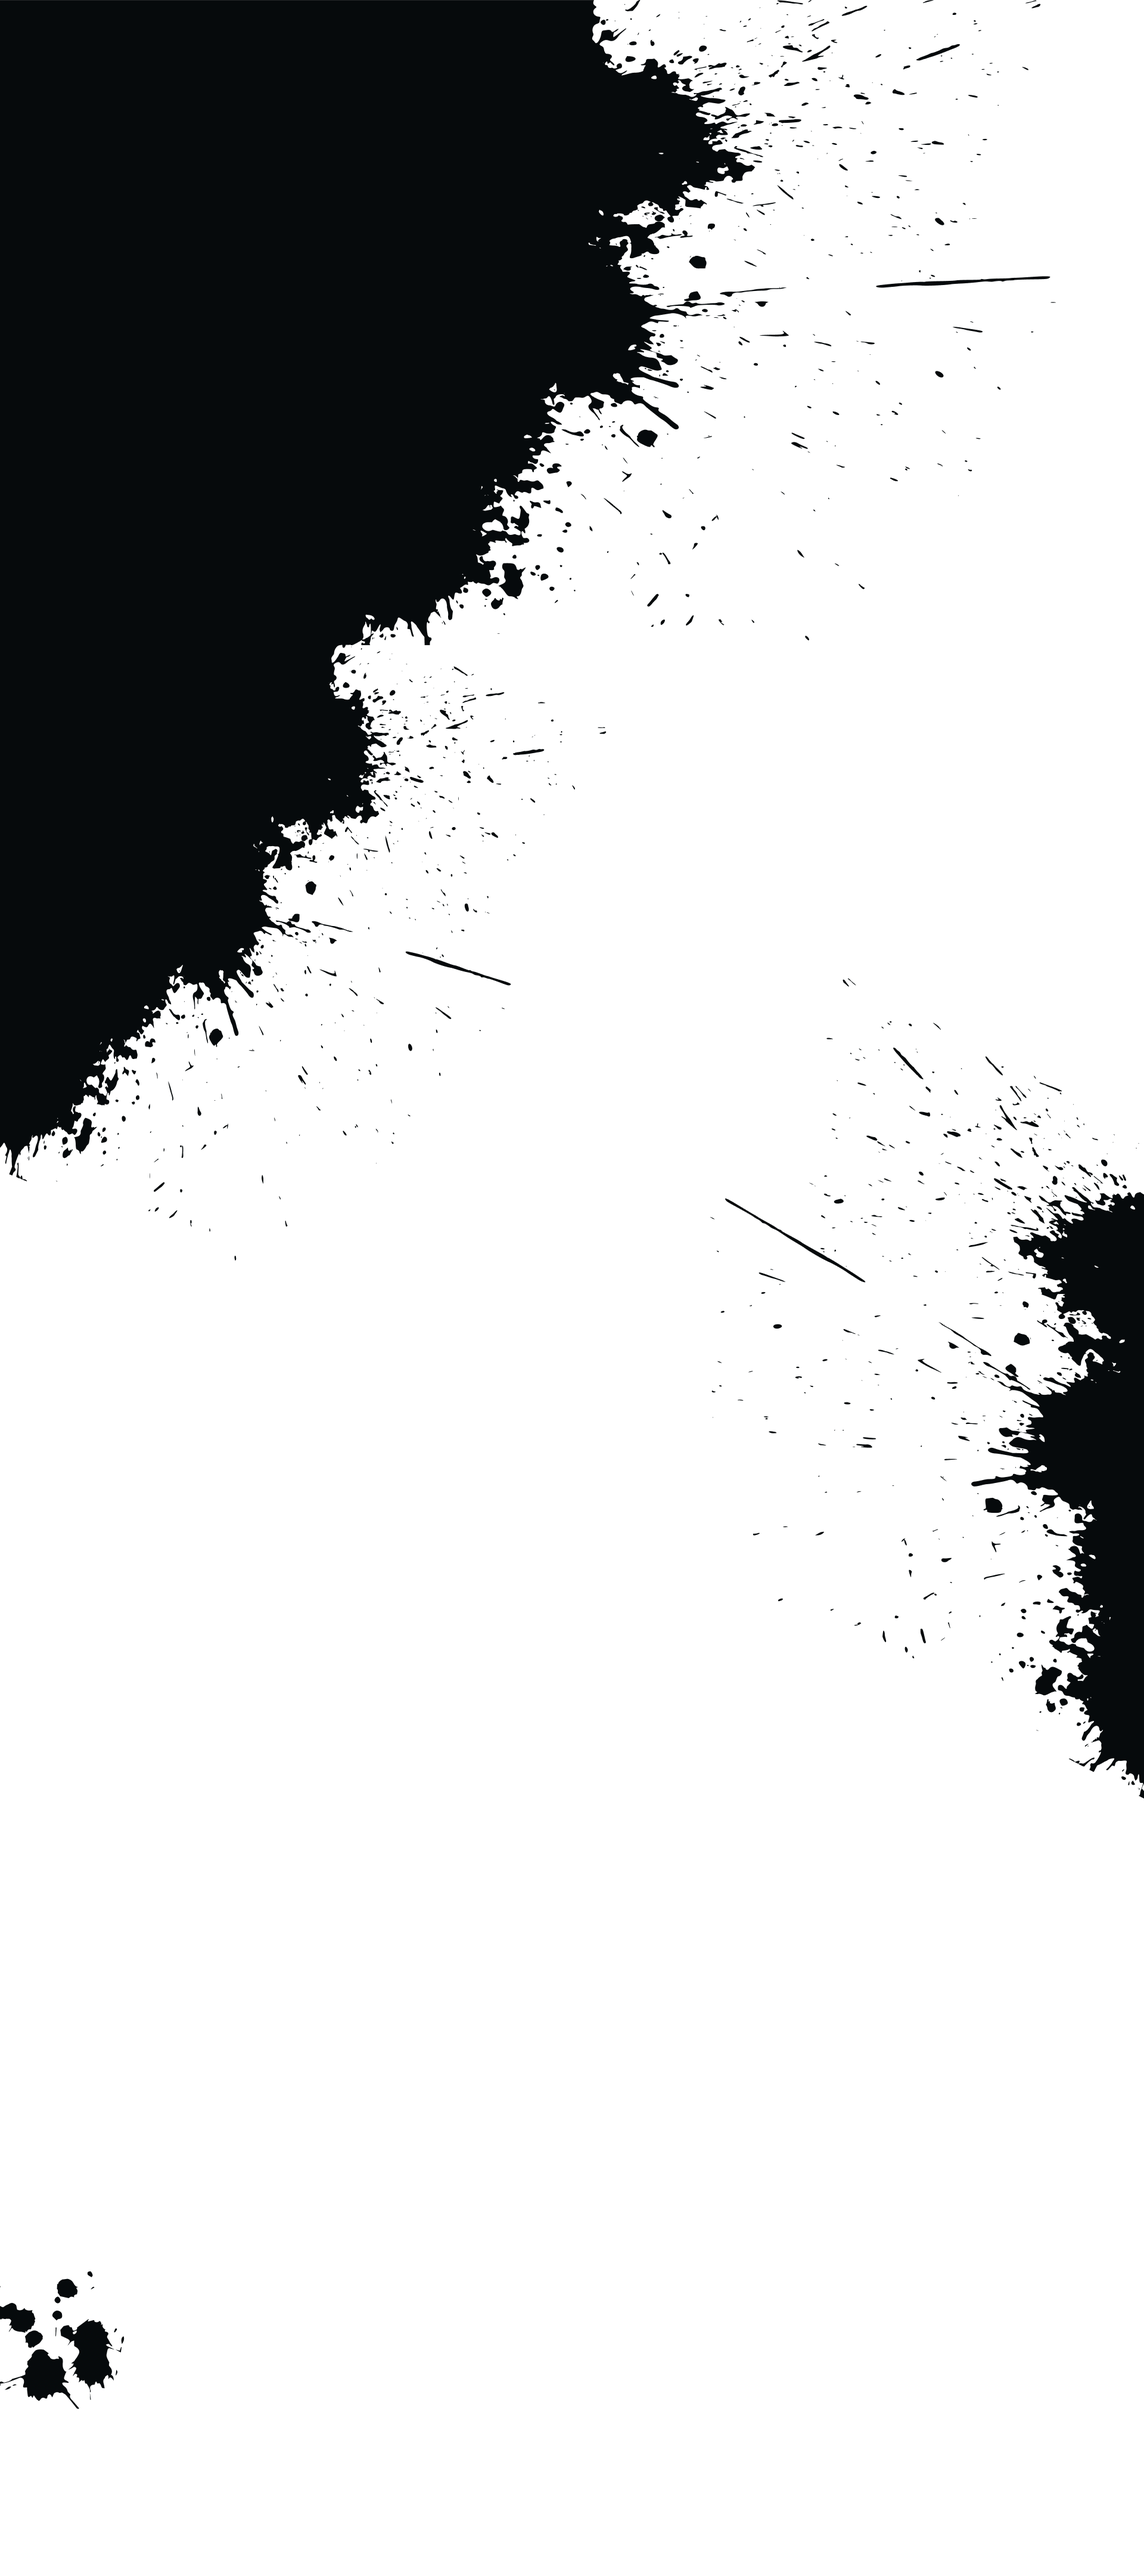
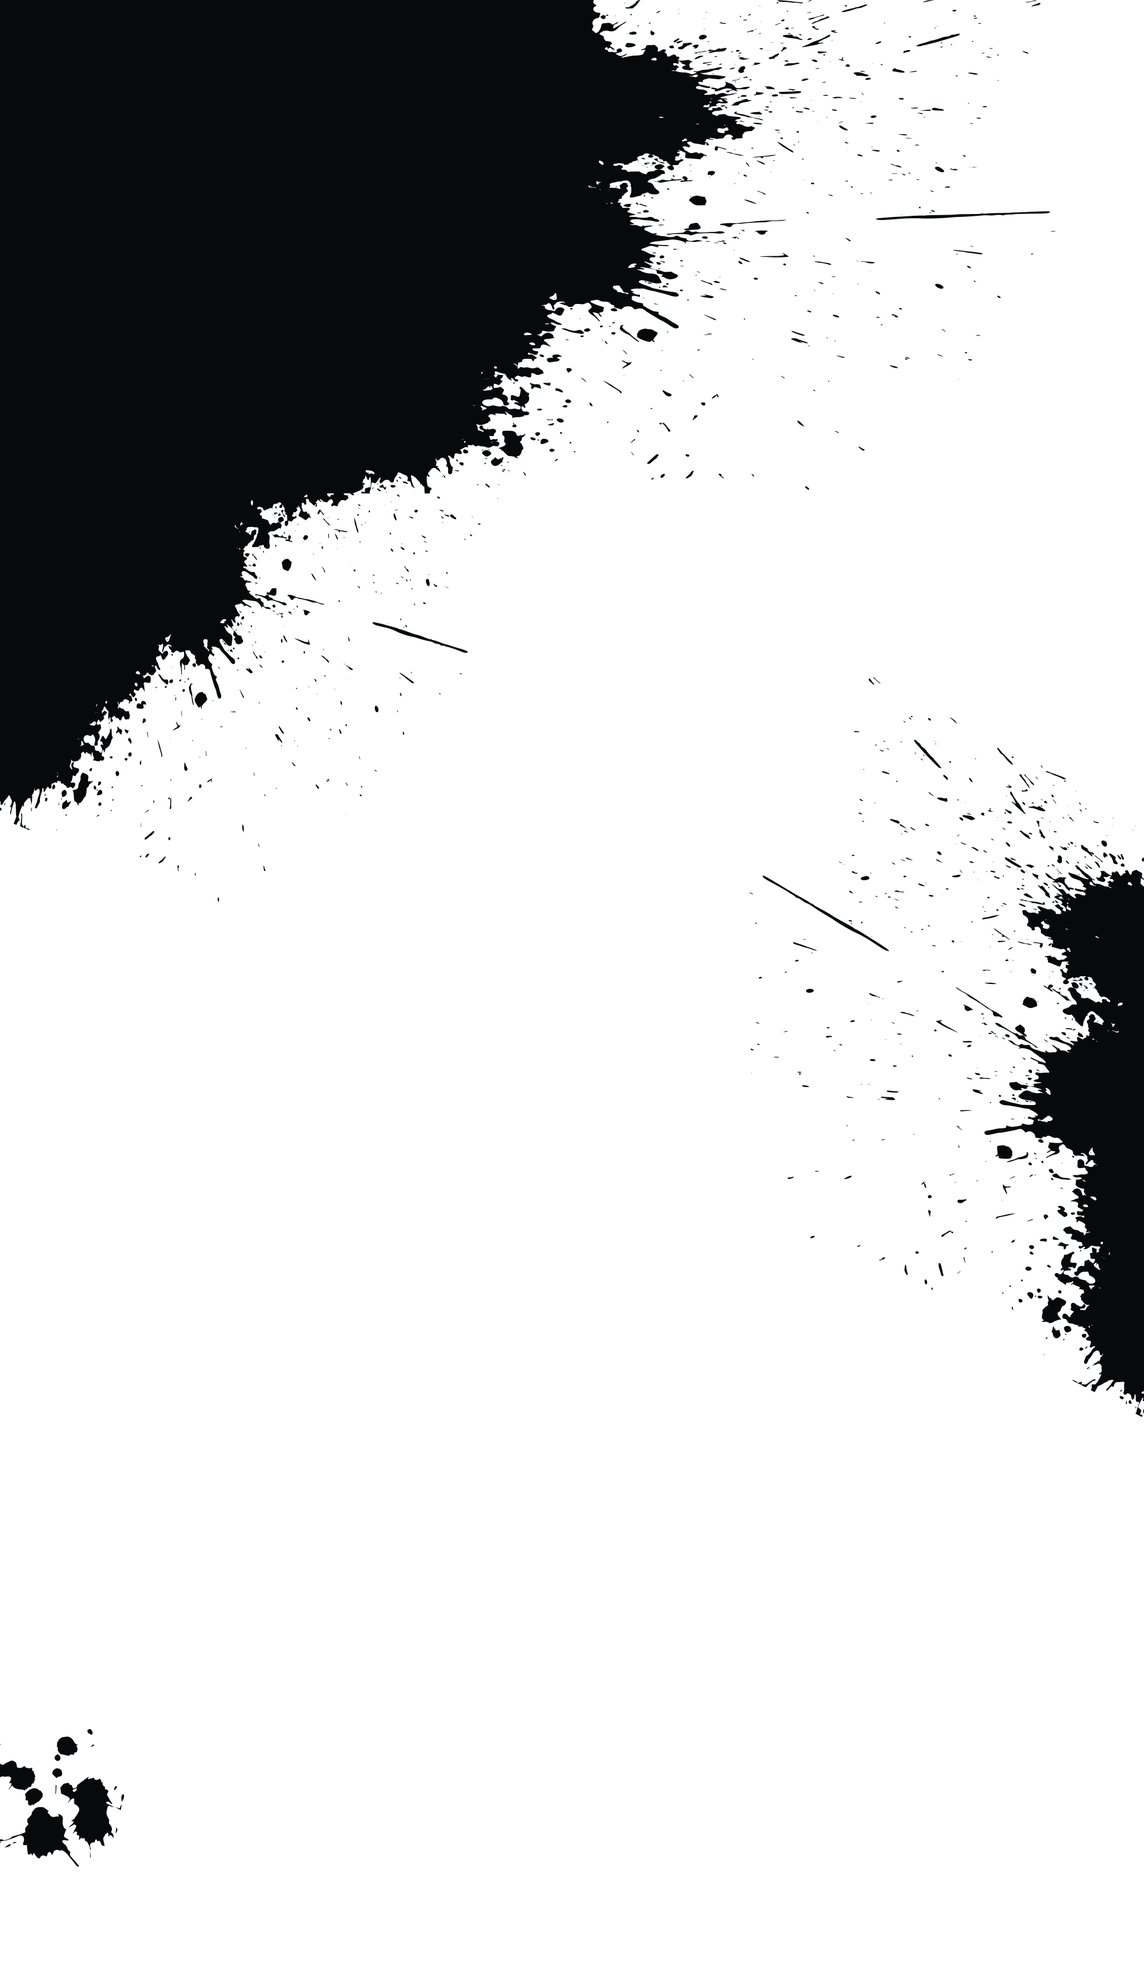
navbar page scroll interactions complete minor improvements from lighthouse audit

diff --git a/app/page.tsx b/app/page.tsx
@@ -1,14 +1,22 @@
+"use client";
+
+import { ArrowDownCircleIcon } from "@heroicons/react/24/outline";
+import Link from "next/link";
+
 import Navbar from "@/components/navbar";
-import Image from "next/image";
+import { links, socials } from "@/configs/details";
+import { scrollToDiv } from "@/libs";
+import { useRouter } from "next/navigation";
 
 export default function Home() {
   return (
     <main className="flex flex-col min-h-screen justify-center">
       <Navbar />
+
       {/* hero section */}
       <div
         id="home"
-        className="flex flex-col h-screen items-start justify-center md:px-24 -mt-[7.5rem] gap-10"
+        className="flex flex-col h-screen items-start justify-center px-12 md:px-24 -mt-[7.5rem] gap-10"
       >
         <div className="flex flex-col gap-4">
           <h1 className="uppercase text-black font-extrabold tracking-[0.19rem] text-outline-white text-6xl lg:text-5xl">
@@ -18,10 +26,27 @@ export default function Home() {
             Engineer + Full Stack Developer
           </p>
         </div>
+
+        <div className="flex gap-4">
+          {socials.map(({ link, icon }, i) => (
+            <Link key={i} href={link} className="w-8 rounded-full bg-gray">
+              <div className="p-1.5 text-black">{icon}</div>
+            </Link>
+          ))}
+        </div>
       </div>
 
       {/* about section */}
       <div className="h-screen" id="about"></div>
+
+      {/* skills section */}
+      <div className="h-screen" id="skills"></div>
+
+      {/* works section */}
+      <div className="h-screen" id="works"></div>
+
+      {/* contact section */}
+      <div className="h-screen" id="contact"></div>
     </main>
   );
 }

diff --git a/components/navbar.tsx b/components/navbar.tsx
@@ -1,13 +1,24 @@
 "use client";
 
 import Link from "next/link";
-import React, { useState } from "react";
+import React, { useEffect, useState } from "react";
 
 import { links } from "@/configs/details";
 import { classNames, scrollToDiv } from "@/libs";
+import { useParams } from "next/navigation";
 
 const Navbar = () => {
+  const params = useParams();
+
   const [activeLink, setActiveLink] = useState<string>("home");
+
+  useEffect(() => {
+    const section = window.location.hash;
+    setActiveLink(
+      section.split("#")[1]?.length ? section.split("#")[1] : "home"
+    );
+    scrollToDiv(section.split("#")[1]?.length ? section.split("#")[1] : "home");
+  }, [params]);
 
   return (
     <header className="sticky top-0 md:px-24 pt-2 glass mix-blend-difference">
@@ -58,7 +69,10 @@ const NavItem = ({
     >
       <Link
         href={url}
-        className={classNames(active ? "text-accent" : "text-white")}
+        className={classNames(
+          active ? "text-accent" : "text-white",
+          "scroll-smooth"
+        )}
       >
         {text}
       </Link>

diff --git a/configs/details.tsx b/configs/details.tsx
@@ -15,7 +15,7 @@ export const country = "Ghana";
 export const links = [
   {
     text: "home",
-    url: "#",
+    url: "#home",
   },
   {
     text: "about",
@@ -39,12 +39,8 @@ export const logo = null;
 
 export const socials = [
   {
-    icon: <EnvelopeIcon className="w-4 h-4" />,
-    link: "mailto:andrewosei94@gmail.com",
-  },
-  {
-    icon: <PhoneIcon className="w-4 h-4" />,
-    link: "tel:233275246704",
+    icon: <GithubIcon className="w-4 h-4" />,
+    link: "https://github.com/thatguynapster",
   },
   {
     icon: <TwitterIcon className="w-4 h-4" />,
@@ -59,7 +55,11 @@ export const socials = [
     link: "https://www.linkedin.com/in/andrew-o-w/",
   },
   {
-    icon: <GithubIcon className="w-4 h-4" />,
-    link: "https://github.com/thatguynapster",
+    icon: <EnvelopeIcon className="w-4 h-4" />,
+    link: "mailto:andrewosei94@gmail.com",
+  },
+  {
+    icon: <PhoneIcon className="w-4 h-4" />,
+    link: "tel:233275246704",
   },
 ];

diff --git a/app/layout.tsx b/app/layout.tsx
@@ -20,7 +20,7 @@ export default function RootLayout({
       <link rel="preconnect" href="https://fonts.googleapis.com" />
       <link rel="preconnect" href="https://fonts.gstatic.com" crossOrigin="" />
       <body
-        className={`${spartan.className} bg-[url('/img/page-background.webp')] bg-cover bg-top sm:bg-top bg-no-repeat`}
+        className={`${spartan.className} bg-[url('/img/page-background.webp')] bg-cover md:bg-contain bg-top sm:bg-top bg-no-repeat`}
       >
         {children}
       </body>

diff --git a/app/globals.css b/app/globals.css
@@ -18,9 +18,12 @@
   }
 }
 
+html {
+  scroll-behavior: smooth;
+}
+
 body {
   color: rgb(var(--foreground-rgb));
-  scroll-behavior: smooth;
 }
 
 @layer utilities {
